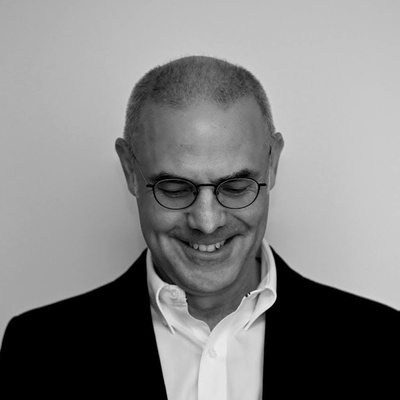
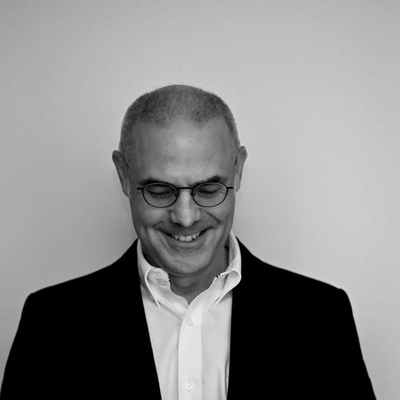
fix: replace author photo with v2, clean CSS to exact spec

diff --git a/css/style.css b/css/style.css
@@ -403,21 +403,20 @@ img {
     gap: 48px;
 }
 
-.author-photo-wrap {
-    flex-shrink: 0;
+.author-photo {
     width: 160px;
     height: 160px;
     border-radius: 50%;
+    border: 3px solid #00ACED;
     overflow: hidden;
-    border: 3px solid var(--accent);
-    box-shadow: 0 0 24px rgba(0, 172, 237, 0.15);
+    flex-shrink: 0;
 }
 
-.author-photo {
+.author-photo img {
     width: 100%;
     height: 100%;
     object-fit: cover;
-    object-position: center;
+    object-position: center center;
     display: block;
 }
 
@@ -740,7 +739,7 @@ img {
         text-align: center;
     }
 
-    .author-photo-wrap {
+    .author-photo {
         width: 120px;
         height: 120px;
     }

diff --git a/index.html b/index.html
@@ -161,8 +161,8 @@
         <section id="author" class="author">
             <div class="container">
                 <div class="author-layout">
-                    <div class="author-photo-wrap">
-                        <img src="images/author-cropped.jpg" alt="Rodrigo Madriz" class="author-photo">
+                    <div class="author-photo">
+                        <img src="images/author-cropped.jpg" alt="Rodrigo Madriz">
                     </div>
                     <div class="author-content">
                         <h2>About the Author</h2>
